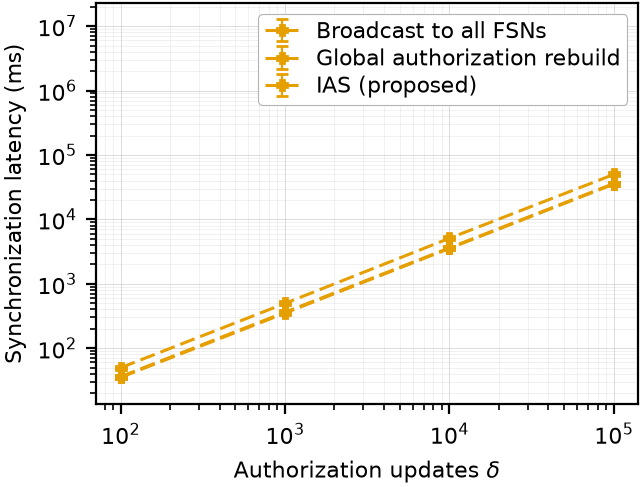
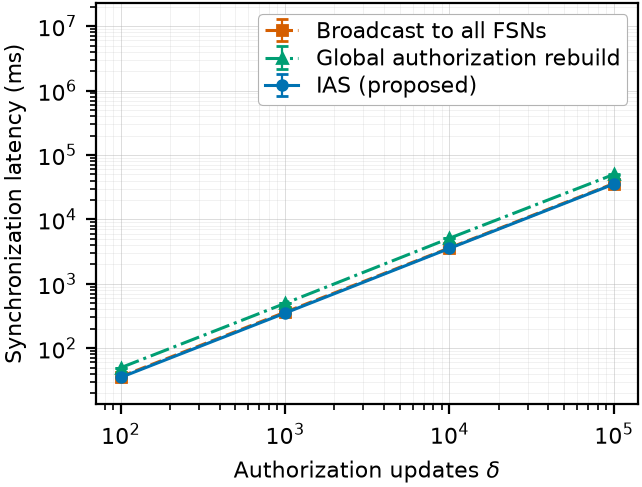
fix(plots): exp6's three variants all drew in the same color/marker
Results-Affecting: no (cosmetic — styling only)

ABLATION_STYLE_SLOT only had entries for exp7/8's vocabulary (AASS/Round
robin/Least loaded/No load balancing). Exp. 6 uses its own labels
(EXP6_VARIANTS: Broadcast to all FSNs / Global authorization rebuild / IAS
(proposed)), none of which matched, so style_for() fell through to the same
constant index for all three -- one indistinguishable orange line on
fig_exp6_sync. Added the three exp6 labels to the slot map, IAS (proposed)
pinned to slot 0 (blue circle) to match the proposed scheme's marker
everywhere else. Regenerated all 9 figures; only exp6's PNG actually changed
pixel content, as expected.

Claude-Session: https://claude.ai/code/session_016jmip4KdGSntXoe7cPe6ew

Changed region(s): [[0.1558, 0.3388, 0.9657, 0.8008], [0.405, 0.0308, 0.4673, 0.2156]]

diff --git a/Plots/generate_plots.py b/Plots/generate_plots.py
@@ -194,6 +194,13 @@ ABLATION_STYLE_SLOT: Dict[str, int] = {
     "Round robin": 1,
     "Least loaded": 2,
     "No load balancing": 3,
+    # Exp. 6 uses its own vocabulary (EXP6_VARIANTS) -- none of these matched
+    # the slots above, so all three fell through to the same fallback index
+    # and drew identically (same color/marker). "IAS (proposed)" gets slot 0,
+    # the same blue circle the proposed scheme holds everywhere else.
+    "IAS (proposed)": 0,
+    "Broadcast to all FSNs": 1,
+    "Global authorization rebuild": 2,
 }
 
 
